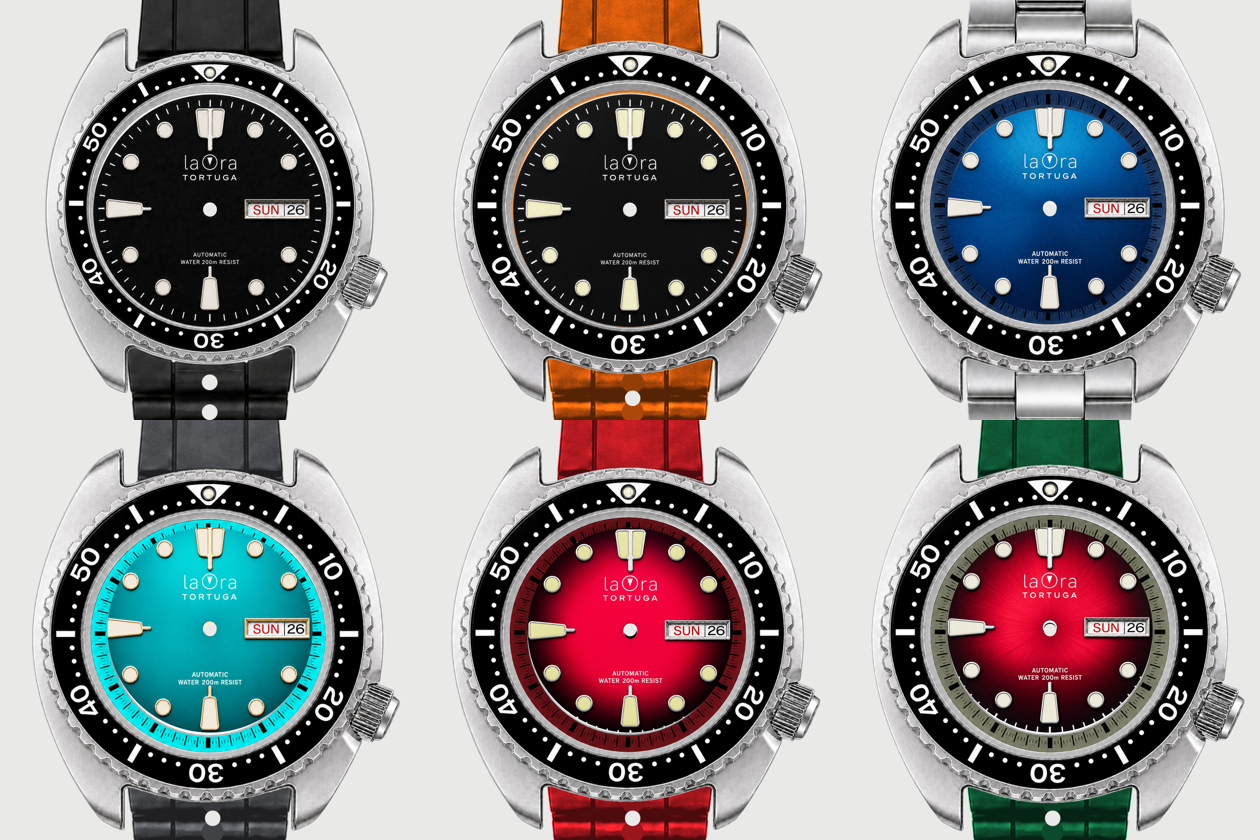
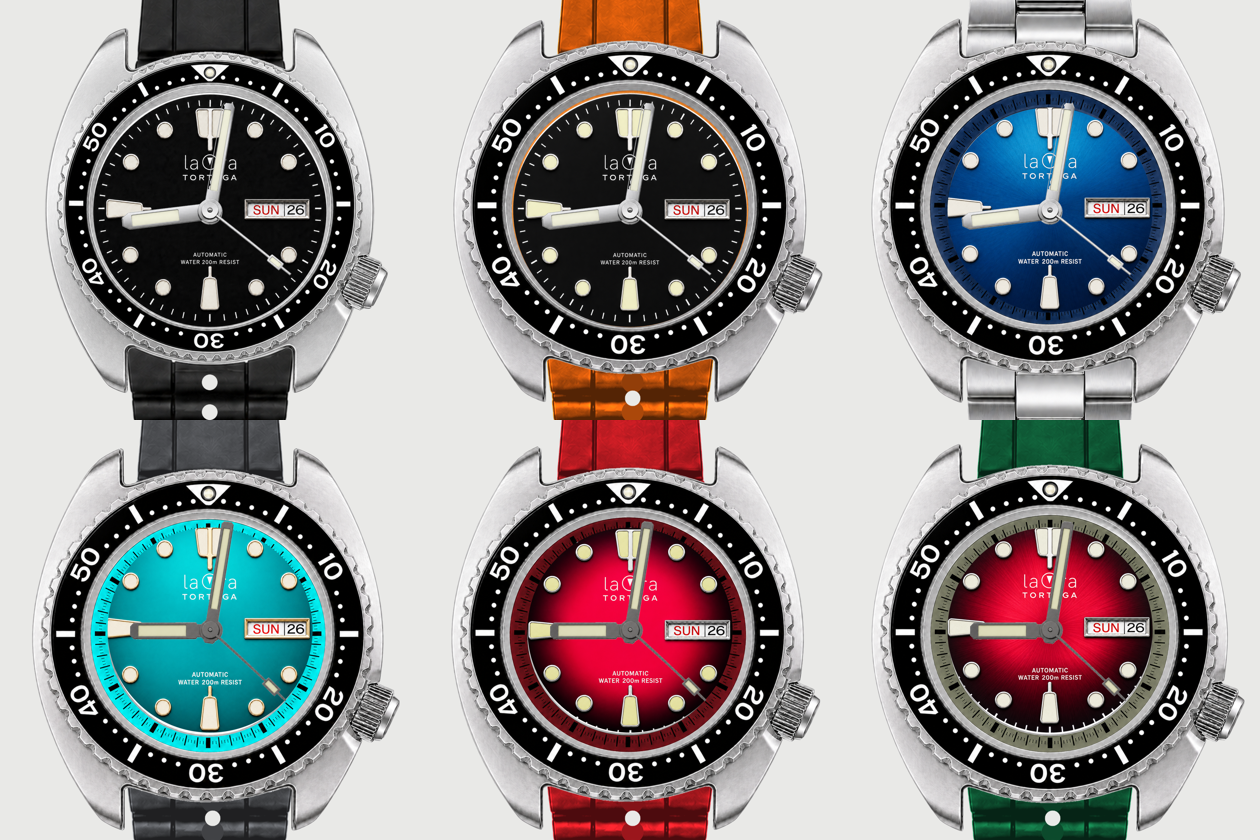
Tortuga: puestas las agujas, y el reloj queda entero
Óscar manda las dos versiones ya montadas: acero inoxidable y gris oscuro.
Las primeras venían SUELTAS —las tres tumbadas una al lado de otra, sin
eje— y habría habido que buscarle a cada una su pivote y girarla. Éstas
llegan armadas sobre el eje 2.048 y marcando las 10:10, que es la hora que
llevan los otros tres modelos.

VAN A LA ESCALA DE LA ESFERA, no a una suya. El fichero se llama
«esfera-28-5mm» y las esferas están dibujadas a esa misma medida: las dos
cosas comparten escala. Midiéndoles el largo y escalándolas aparte, la
hora seguiría siendo la misma pero las puntas dejarían de caer donde el
dibujante las puso. Con la escala de la esfera —0,6365— el juego pasa de
1.685 a 1.073 px, que es el 94 % del radio del ojo de la caja.

El Tortuga queda montado entero: once cajas, ocho esferas, dos juegos de
agujas, seis correas de caucho y el brazalete. Veintiocho capas.

Sigue pendiente, y es de Óscar:
  · LAS CAJAS CON LAS ASTAS A 20 mm, que decidió cerrar. Son once ficheros
    con el hueco de 1.638 px a 1.428, centrado en la 2.051. Cuando lleguen
    no hay que tocar la herramienta: la escala de la correa sale del hueco
    medido.
  · LAS DECISIONES DE PRODUCTO: qué anillos se venden de los once, qué
    medidas, qué calibres y qué cuesta cada pieza. Sin eso la ficha no
    puede tener pasos ni precio.

diff --git a/herramientas/capas_tortuga.py b/herramientas/capas_tortuga.py
@@ -75,6 +75,18 @@ ESFERAS = {
     'esfera-negra-marfil':     '17-esfera-negra-marfil-28-5mm-4096.png',
     'esfera-frambuesa-fume':   '18-esfera-frambuesa-fume-28-5mm-4096.png',
 }
+# LAS AGUJAS VIENEN YA MONTADAS (Óscar, 31/08/2026). Las primeras llegaron
+# sueltas —las tres tumbadas una al lado de otra, sin eje— y habría habido
+# que buscarle a cada una su pivote y girarla. Éstas vienen armadas sobre el
+# eje 2.048 y DIBUJADAS PARA LA ESFERA DE 28,5 mm, que es la misma a la que
+# están dibujadas las esferas: por eso van a la escala de la esfera, no a
+# una suya. Si se les midiera el largo y se escalaran aparte, la hora que
+# marcan seguiría siendo la misma pero las puntas dejarían de caer donde el
+# dibujante las puso.
+AGUJAS = {
+    'agujas-acero':       '39-agujas-tortuga-acero-inoxidable-esfera-28-5mm-eje-2048.png',
+    'agujas-gris-oscuro': '38-agujas-tortuga-gris-oscuro-esfera-28-5mm-eje-2048.png',
+}
 CORREAS = {
     'caucho-negra':      '32-correa-caucho-negra-buzo-20-18mm-eje-2048.png',
     'caucho-azul-marino': '33-correa-caucho-azul-marino-buzo-20-18mm-eje-2048.png',
@@ -268,6 +280,15 @@ def monta():
         c = ((xx.min() + xx.max()) / 2.0, (yy.min() + yy.max()) / 2.0)
         capas[ident] = pon(f, se, c, eje)
 
+    # las agujas, a la MISMA escala que la esfera: están dibujadas para ella
+    for ident, f in sorted(AGUJAS.items()):
+        b = alfa(f)
+        yy, xx = np.where(b)
+        largo = float(np.hypot(xx - LIENZO / 2.0, yy - LIENZO / 2.0).max())
+        capas[ident] = pon(f, se, (LIENZO / 2.0, LIENZO / 2.0), eje)
+        print('AGUJAS %-20s largo %.0f -> %.0f px, de un ojo de %.0f (%.0f %% del radio)'
+              % (ident, largo, largo * se, r_ojo, 100 * largo * se / r_ojo))
+
     # las correas, a llenar el hueco entre astas Y a llegar hasta la caja
     a_caja = alfa(CAJA_PATRON)
     for ident, f in sorted(CORREAS.items()):
@@ -296,18 +317,18 @@ def monta():
 
 
 def hoja(capas, destino):
-    tiros = [('caja-acero', 'esfera-negra', 'caucho-negra'),
-             ('caja-anillo-naranja', 'esfera-negra-marfil', 'caucho-naranja'),
-             ('caja-anillo-azul', 'esfera-azul-sunburst', 'brazalete-acero'),
-             ('caja-anillo-turquesa', 'esfera-turquesa-champagne', 'caucho-gris'),
-             ('caja-anillo-burdeos', 'esfera-frambuesa-fume', 'caucho-roja'),
-             ('caja-anillo-oliva', 'esfera-roja-fume', 'caucho-verde')]
+    tiros = [('caja-acero', 'esfera-negra', 'caucho-negra', 'agujas-acero'),
+             ('caja-anillo-naranja', 'esfera-negra-marfil', 'caucho-naranja', 'agujas-acero'),
+             ('caja-anillo-azul', 'esfera-azul-sunburst', 'brazalete-acero', 'agujas-acero'),
+             ('caja-anillo-turquesa', 'esfera-turquesa-champagne', 'caucho-gris', 'agujas-gris-oscuro'),
+             ('caja-anillo-burdeos', 'esfera-frambuesa-fume', 'caucho-roja', 'agujas-gris-oscuro'),
+             ('caja-anillo-oliva', 'esfera-roja-fume', 'caucho-verde', 'agujas-gris-oscuro')]
     cols = 3
     filas = (len(tiros) + cols - 1) // cols
     h = Image.new('RGB', (cols * 420, filas * 420), FONDO[:3])
-    for i, (caja, esf, cor) in enumerate(tiros):
+    for i, (caja, esf, cor, ag) in enumerate(tiros):
         L = Image.new('RGBA', (ANCHO, ANCHO), FONDO)
-        for k in (cor, esf, caja):
+        for k in (cor, esf, caja, ag):
             L.alpha_composite(capas[k])
         h.paste(L.convert('RGB').resize((420, 420)),
                 ((i % cols) * 420, (i // cols) * 420))
